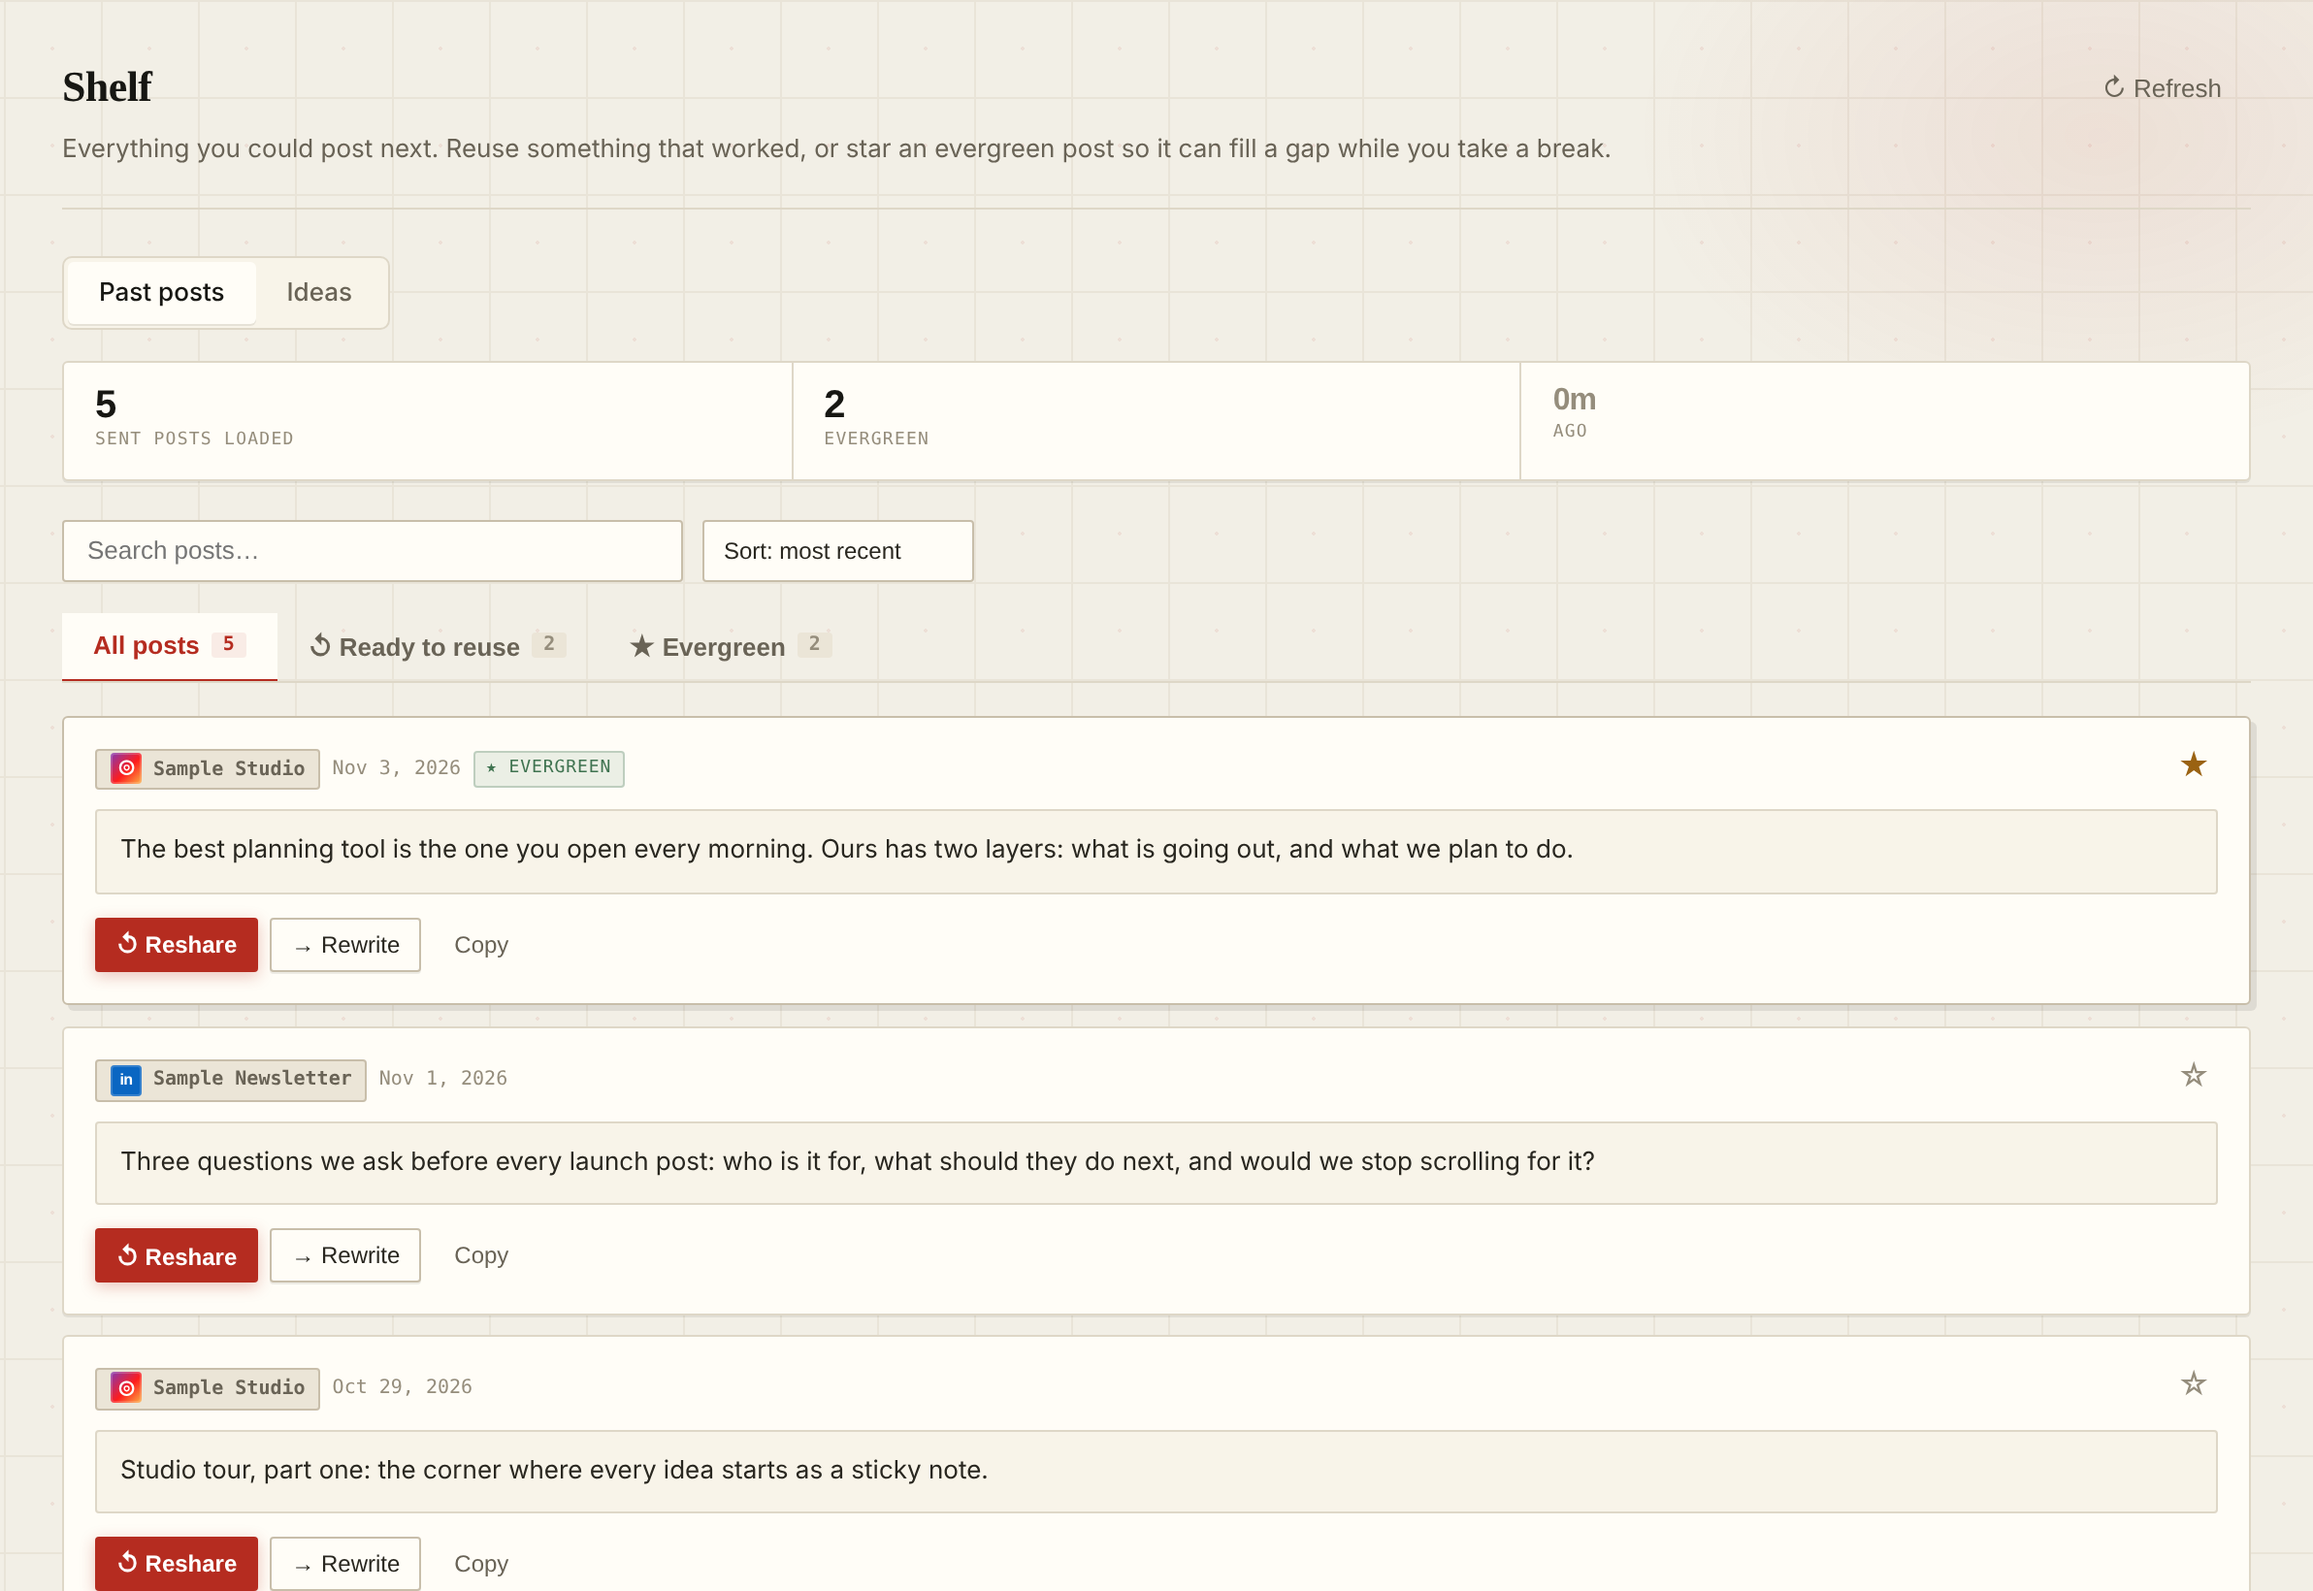
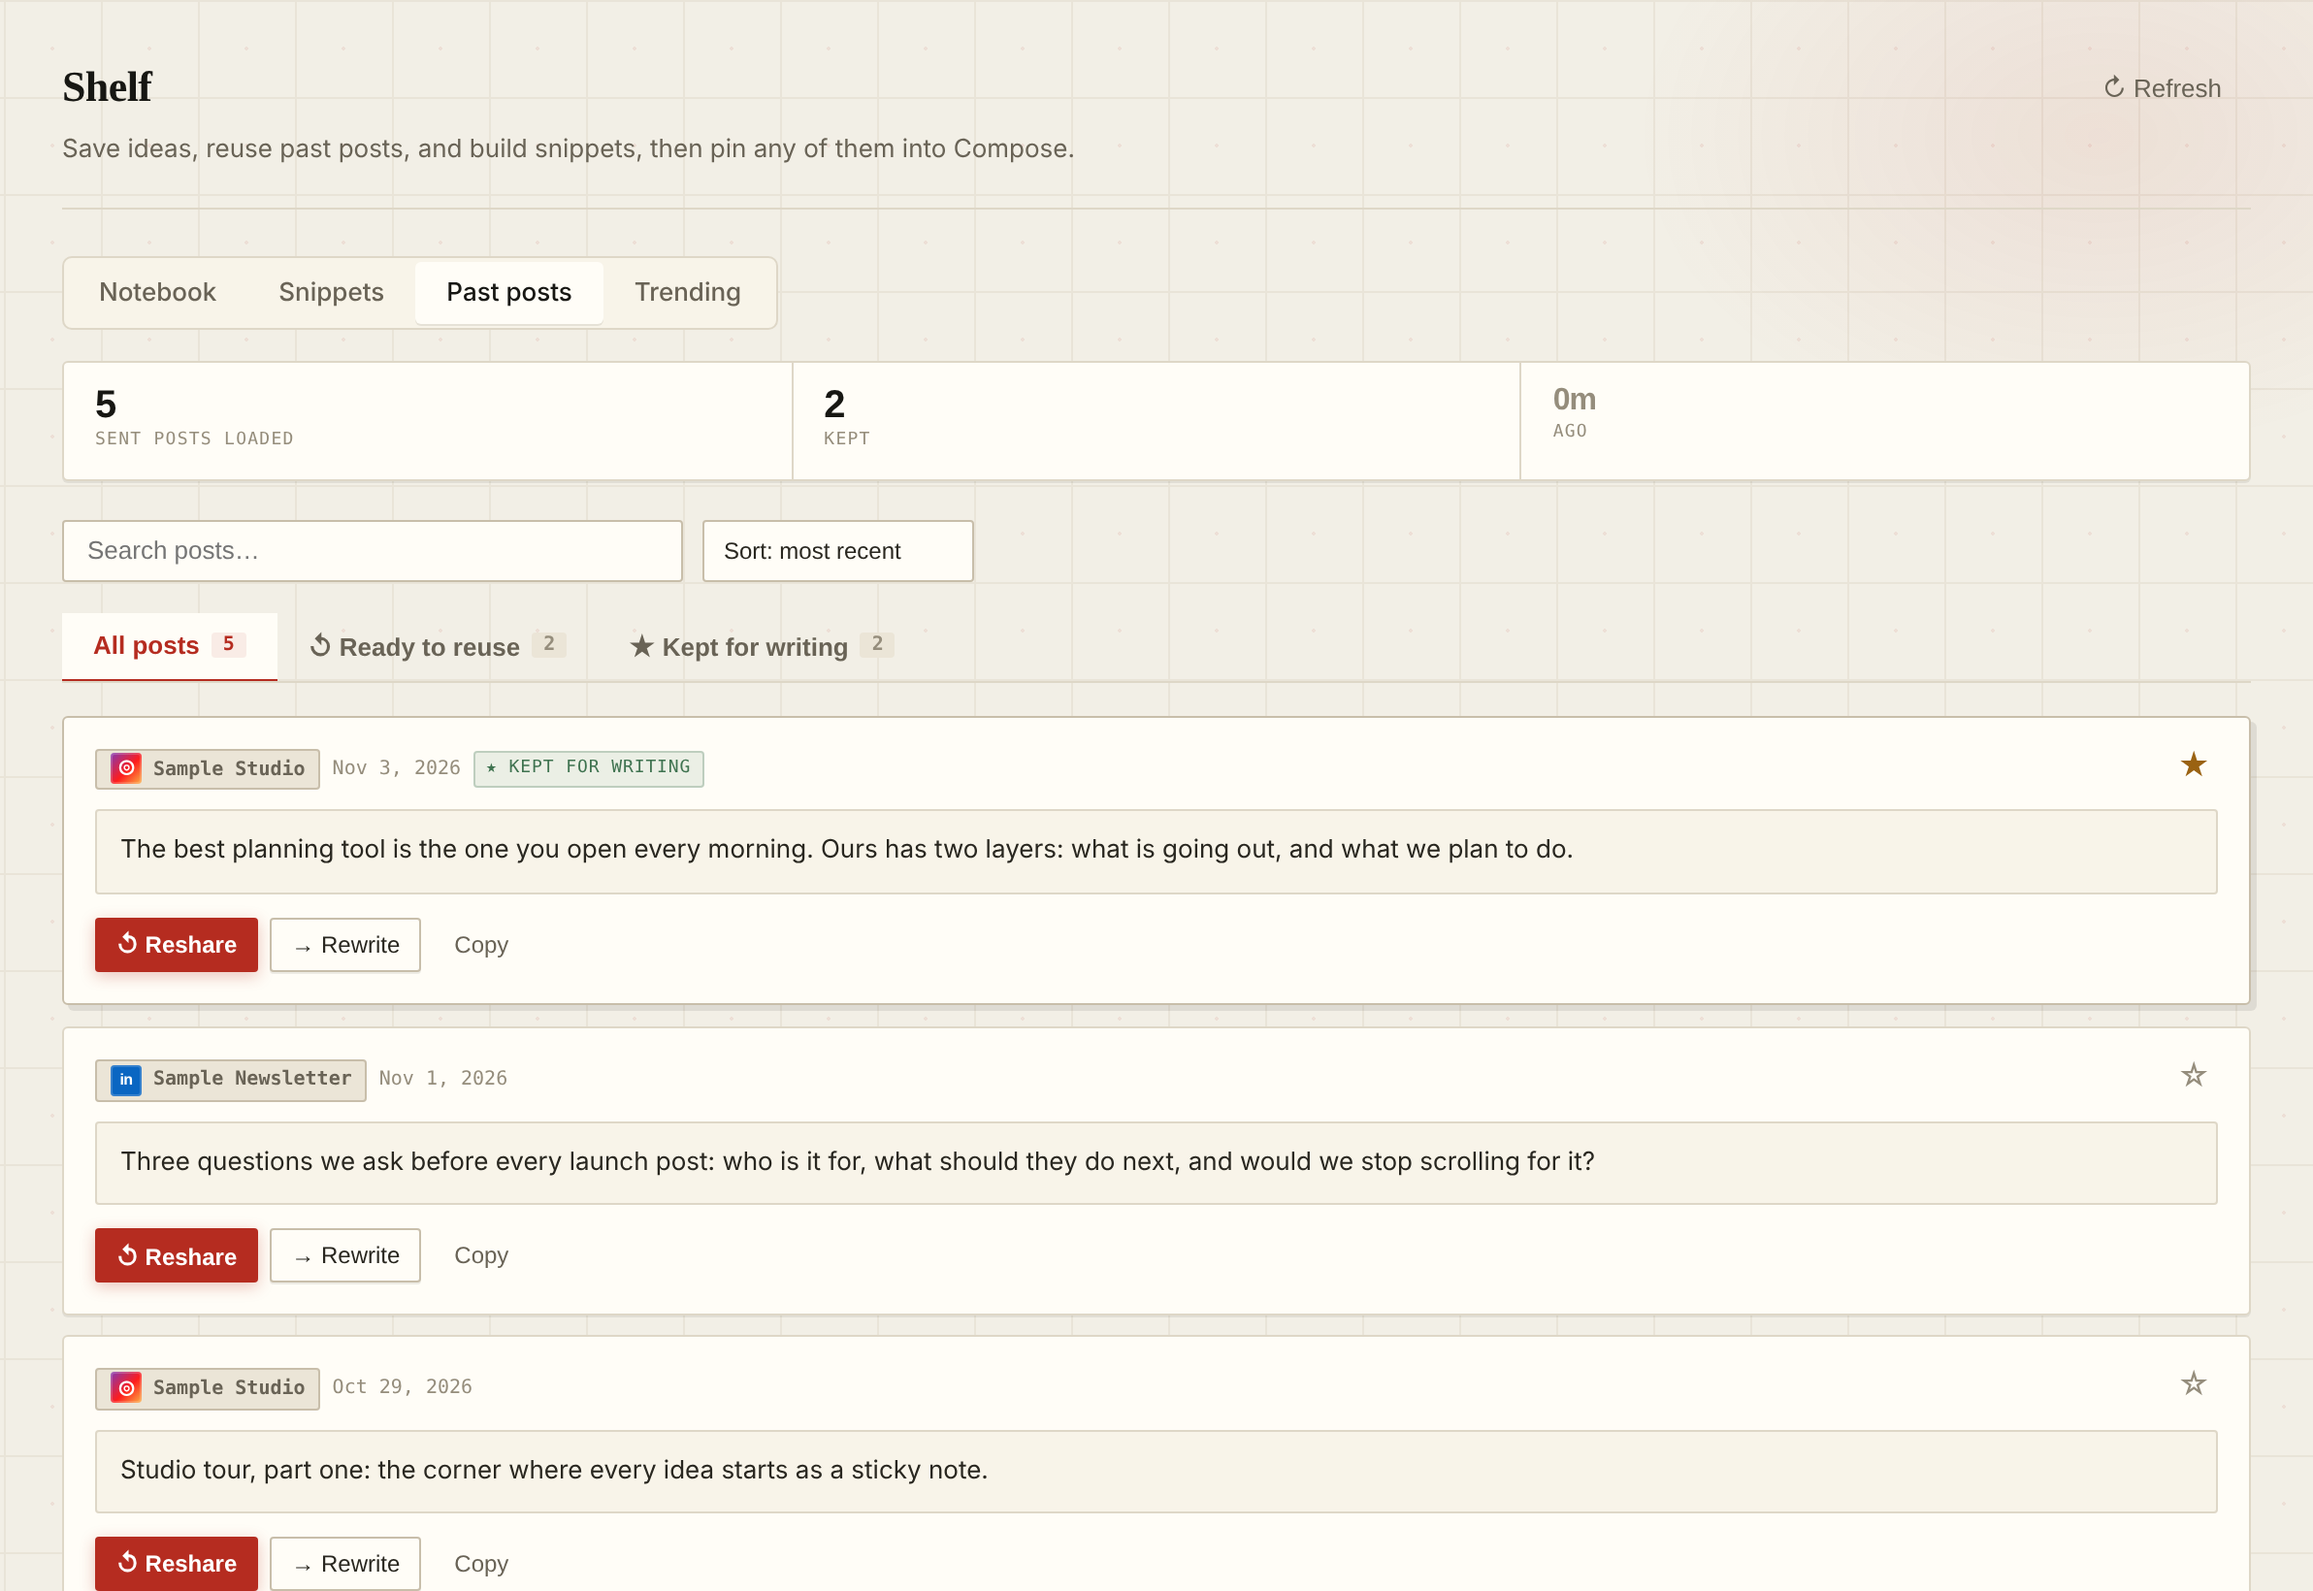
Settings support uses the same form as the landing page; refresh product screenshots
- Settings → Support: the Email Ben mailto is replaced by an 'Email support'
  form with the same fields and Netlify form as the landing page and Help Center.
- Product screenshots regenerated from the current app with sample data
  (Shelf now shows Notebook, Snippets, Past posts and Trending), plus the
  social preview image.

Claude-Session: https://claude.ai/code/session_012foW1Ag3aAzKPpbkeTG9Ho

diff --git a/app.html b/app.html
@@ -1076,10 +1076,20 @@
           <div class="settings-section-title">Get help</div>
           <p class="settings-copy">PostIQ is built and maintained by one person, so questions, bug reports, and feature requests come straight to Ben — no ticket queue in between.</p>
           <div class="row mt12">
-            <a class="btn primary" href="mailto:hirebencampbell@gmail.com?subject=PostIQ%20support" id="supportEmailLink">Email Ben</a>
             <a class="btn ghost" href="/help/">Help Center</a>
           </div>
         </div>
+        <details class="settings-section support-email-panel" id="supportEmailPanel">
+          <summary class="settings-section-title">Email support</summary>
+          <p class="settings-copy">Question about the Buffer connection or the calendar? Drop a message.</p>
+          <form name="postiq-support" method="POST" data-netlify="true" class="support-form">
+            <input type="hidden" name="form-name" value="postiq-support" />
+            <label><span>Your Name</span><input type="text" name="name" autocomplete="name" required /></label>
+            <label><span>Email</span><input type="email" name="email" autocomplete="email" required /></label>
+            <label><span>How can I help?</span><textarea name="message" rows="4" required></textarea></label>
+            <button type="submit" class="btn primary">Send Message</button>
+          </form>
+        </details>
         <div class="settings-section">
           <div class="settings-section-title">Community</div>
           <p class="settings-copy">Already posting through Discord? Webhook setup and destinations live on the <button class="btn sm ghost" id="supportOpenDiscordBtn" type="button">Discord</button> tab.</p>

diff --git a/css/app/settings-customize.css b/css/app/settings-customize.css
@@ -38,3 +38,14 @@
 .theme-swatch-studio i:nth-child(1) { background: #fff5ea; } .theme-swatch-studio i:nth-child(2) { background: #e45c3a; } .theme-swatch-studio i:nth-child(3) { background: #a83b78; }
 .theme-swatch-evergreen i:nth-child(1) { background: #edf3ec; } .theme-swatch-evergreen i:nth-child(2) { background: #267a55; } .theme-swatch-evergreen i:nth-child(3) { background: #d97941; }
 @media (max-width: 520px) { .theme-picker { grid-template-columns: 1fr; } }
+
+/* Settings → Support: "Email support" form, same fields as the landing and Help Center forms. */
+.support-email-panel > summary { cursor: pointer; list-style: none; }
+.support-email-panel > summary::-webkit-details-marker { display: none; }
+.support-email-panel > summary::after { content: ' ▾'; color: var(--muted); }
+.support-email-panel[open] > summary::after { content: ' ▴'; }
+.support-form { display: flex; flex-direction: column; gap: 12px; margin-top: 12px; }
+.support-form label span { display: block; font-size: 12px; font-weight: 700; color: var(--text); margin-bottom: 5px; }
+.support-form input, .support-form textarea { width: 100%; border: 1px solid var(--border2); border-radius: var(--r); padding: 10px 12px; font-family: inherit; font-size: 14px; background: var(--surface2); color: var(--text); }
+.support-form input:focus, .support-form textarea:focus { border-color: var(--brand); outline: 2px solid var(--brand-dim); }
+.support-form .btn { width: 100%; }
